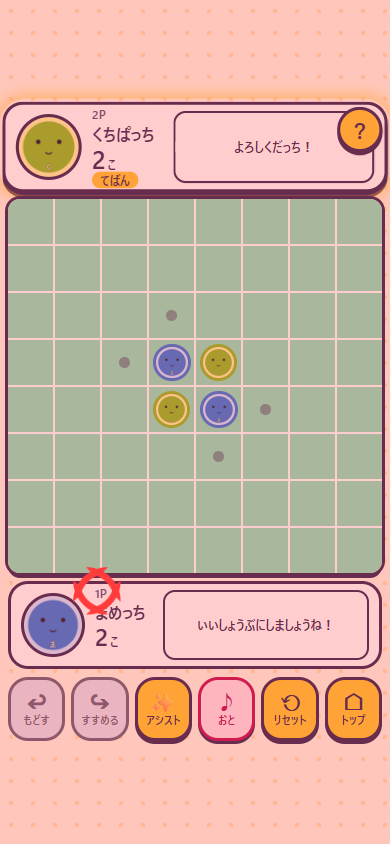
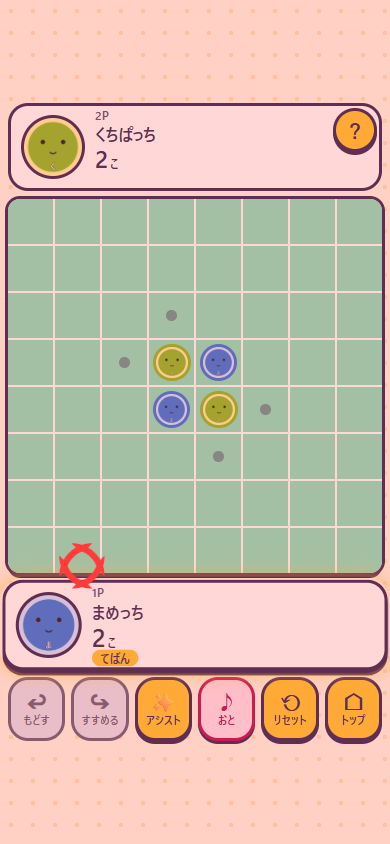
fix: 歓喜演出の強化とヘルプボタンの吹き出し重なり解消

Changed region(s): [[0.0, 0.0924, 1.0, 0.2464], [0.0, 0.6469, 1.0, 0.8009], [0.3692, 0.4005, 0.6154, 0.5237]]

diff --git a/js/ui/effects.js b/js/ui/effects.js
@@ -2,11 +2,8 @@
   'use strict';
   // Emotion effects on the full-screen #fx-layer, plus per-panel speech bubbles and thinking dots.
 
+  var C = Otc.Const;
   var FADE_MS = 300;
-  var BURSTS = 3;
-  var PER_BURST = 12;
-  var RAIN_COUNT = 30;
-  var SWEAT_COUNT = 12;
 
   var layer = null;
   var groups = []; // { el, timer, shakeEl, bounceEl }
@@ -70,19 +67,29 @@
     return { x: rect.left + rect.width / 2, y: rect.top + rect.height / 2 };
   }
 
-  function buildJoy(g, origin, reduced) {
-    var total = budget(BURSTS * PER_BURST, reduced);
-    var bursts = reduced ? 1 : BURSTS;
+  // Bursts open over the board (fixed spots as fractions of its box), each with a short gold center flash.
+  var BURST_SPOTS = [[0.28, 0.32], [0.72, 0.28], [0.5, 0.66]];
+
+  function buildJoy(g, reduced) {
+    var board = document.querySelector('#screen-game .board');
+    var r = board ? board.getBoundingClientRect() : { left: 0, top: 0, width: window.innerWidth, height: window.innerHeight };
+    var total = budget(C.JOY_BURSTS * C.JOY_PER_BURST, reduced);
+    var bursts = reduced ? 1 : C.JOY_BURSTS;
     var per = Math.ceil(total / bursts);
     var made = 0;
-    var vw = window.innerWidth;
     for (var b = 0; b < bursts && made < total; b += 1) {
-      var bx = Math.max(40, Math.min(vw - 40, origin.x + (b - 1) * 70));
-      var by = origin.y - 40 - (b % 2) * 50;
+      var bx = r.left + r.width * BURST_SPOTS[b][0];
+      var by = r.top + r.height * BURST_SPOTS[b][1];
+      var delay = b * 300;
+      var flash = el('div', 'fx-burst');
+      flash.style.setProperty('--x', bx + 'px');
+      flash.style.setProperty('--y', by + 'px');
+      flash.style.setProperty('--d', delay + 'ms');
+      g.el.appendChild(flash);
       for (var k = 0; k < per && made < total; k += 1) {
         var ang = (k / per) * Math.PI * 2;
-        var r = 50 + (k % 3) * 18;
-        addParticle(g.el, 'fx-spark' + (k % 2 ? ' alt' : ''), bx, by, Math.cos(ang) * r, Math.sin(ang) * r, b * 250);
+        var rad = 100 + (k % 3) * 20;
+        addParticle(g.el, 'fx-spark' + (k % 2 ? ' alt' : ''), bx, by, Math.cos(ang) * rad, Math.sin(ang) * rad, delay);
         made += 1;
       }
     }
@@ -93,16 +100,18 @@
     g.el.appendChild(flash);
     var mark = el('div', 'fx-anger');
     mark.appendChild(el('i'));
-    var x = avatarRect ? avatarRect.right - 10 : origin.x;
-    var y = avatarRect ? avatarRect.top - 24 : origin.y;
+    g.el.appendChild(mark);
+    // Above the avatar's top-right corner, clear of the tag and the name.
+    var size = mark.offsetHeight;
+    var x = avatarRect ? avatarRect.right - size / 2 : origin.x;
+    var y = avatarRect ? avatarRect.top - size - 4 : origin.y;
     mark.style.setProperty('--x', Math.max(0, x) + 'px');
     mark.style.setProperty('--y', Math.max(0, y) + 'px');
-    g.el.appendChild(mark);
   }
 
   function buildSadness(g, reduced) {
     g.el.appendChild(el('div', 'fx-dim'));
-    var n = budget(RAIN_COUNT, reduced);
+    var n = budget(C.RAIN_COUNT, reduced);
     var w = window.innerWidth;
     var h = window.innerHeight;
     for (var i = 0; i < n; i += 1) {
@@ -112,7 +121,7 @@
   }
 
   function buildPanic(g, origin, reduced) {
-    var n = budget(SWEAT_COUNT, reduced);
+    var n = budget(C.SWEAT_COUNT, reduced);
     for (var i = 0; i < n; i += 1) {
       var side = i % 2 ? 1 : -1;
       addParticle(g.el, 'fx-sweat', origin.x + side * (20 + (i % 3) * 14), origin.y - 20, side * (10 + (i % 4) * 8), 70 + (i % 3) * 20, (i % 6) * 150);
@@ -132,7 +141,7 @@
     groups.push(g);
 
     if (emotion === 'joy') {
-      buildJoy(g, origin, reduced);
+      buildJoy(g, reduced);
       if (avatar && !reduced) { g.bounceEl = avatar; avatar.classList.remove('fx-bounce'); void avatar.offsetWidth; avatar.classList.add('fx-bounce'); }
     } else if (emotion === 'anger') {
       buildAnger(g, origin, avatarRect);

diff --git a/css/effects.css b/css/effects.css
@@ -27,7 +27,24 @@
 }
 
 /* Joy: gold fireworks */
-.fx-spark { border-radius: 50%; background: var(--fx-gold); box-shadow: 0 0 6px 2px var(--fx-gold-light); }
+.fx-spark { width: var(--fx-spark-size); height: var(--fx-spark-size); border-radius: 50%; background: var(--fx-gold); box-shadow: 0 0 8px 3px var(--fx-gold-light); }
+.fx-burst {
+  position: absolute;
+  left: var(--x);
+  top: var(--y);
+  width: var(--fx-burst-flash-size);
+  height: var(--fx-burst-flash-size);
+  margin: calc(var(--fx-burst-flash-size) / -2) 0 0 calc(var(--fx-burst-flash-size) / -2);
+  border-radius: 50%;
+  background: radial-gradient(var(--fx-gold-light), var(--fx-gold) 55%, transparent 72%);
+  opacity: 0;
+  animation: fx-burst var(--fx-burst-flash-dur) ease-out var(--d) both;
+}
+@keyframes fx-burst {
+  0% { opacity: 0; transform: scale(0.2); }
+  30% { opacity: 1; }
+  100% { opacity: 0; transform: scale(2.2); }
+}
 .fx-spark.alt { background: var(--fx-gold-light); }
 .fx-spark { --dur: var(--fx-burst); }
 .fx-bounce { animation: fx-bounce var(--fx-bounce-dur) ease-out 2; }
@@ -58,7 +75,7 @@
   width: var(--fx-anger-size);
   height: var(--fx-anger-size);
   opacity: 0;
-  animation: fx-anger-pop 1600ms ease-out both;
+  animation: fx-anger-pop var(--fx-anger-dur) ease-out both;
 }
 .fx-anger::before, .fx-anger::after, .fx-anger i::before, .fx-anger i::after {
   content: "";
@@ -139,6 +156,8 @@ html.fx-shaking, html.fx-shaking body { overflow: hidden; }
   transition: opacity var(--fx-bubble-fade) ease;
 }
 .bubble.fx-out { opacity: 0; }
+/* The 2P help button sits over the right end of the 2P panel: keep bubble text clear of it. */
+.side-p2 .bubble { margin-right: var(--help-reserve); }
 .bubble::before {
   content: "";
   position: absolute;
@@ -176,7 +195,8 @@ html.fx-shaking, html.fx-shaking body { overflow: hidden; }
 @media (prefers-reduced-motion: reduce) {
   #fx-layer .fx-flash { animation: fx-flash var(--fx-flash-dur-reduced) ease-out both !important; }
   #fx-layer .fx-dim { animation: fx-dim calc(var(--fx-rain-dur) * 2) ease-in-out both !important; }
-  #fx-layer .fx-anger { animation: fx-anger-pop 1600ms ease-out both !important; }
+  #fx-layer .fx-anger { animation: fx-anger-pop var(--fx-anger-dur) ease-out both !important; }
+  #fx-layer .fx-burst { animation: fx-burst var(--fx-burst-flash-dur) ease-out var(--d) both !important; }
   #fx-layer .fx-p { animation: fx-travel var(--dur) ease-out var(--d) both !important; }
   .bubble-dots span { animation: fx-dot var(--fx-dots-dur) ease-in-out infinite !important; }
   #screen-game.fx-shake { animation: none !important; }

diff --git a/js/config/constants.js b/js/config/constants.js
@@ -57,6 +57,11 @@
     EMOTION_HOLD_MS: 2000,
     BUBBLE_MS: 2500,
     MAX_PARTICLES: 40,
+    // Effect sizes: joy bursts x particles per burst, rain drops, sweat drops (each capped by MAX_PARTICLES in total).
+    JOY_BURSTS: 3,
+    JOY_PER_BURST: 10,
+    RAIN_COUNT: 30,
+    SWEAT_COUNT: 12,
     AI_LEVELS: {
       easy: { depth: 1, timeMs: 300, endgameEmpties: 0, randomRate: 0.3 },
       normal: { depth: 3, timeMs: 1000, endgameEmpties: 8, randomRate: 0 },

diff --git a/css/theme.css b/css/theme.css
@@ -108,6 +108,11 @@
   --fx-bounce-dur: 700ms;
   --fx-dots-dur: 1.2s;
   --fx-particle-size: 10px;
+  --fx-spark-size: 16px;
+  --fx-burst-flash-size: 70px;
+  --fx-burst-flash-dur: 500ms;
+  --fx-anger-dur: 1600ms;
+  --help-reserve: 44px;
   --fx-anger-size: 44px;
   --fx-bubble-fade: 250ms;
 }
